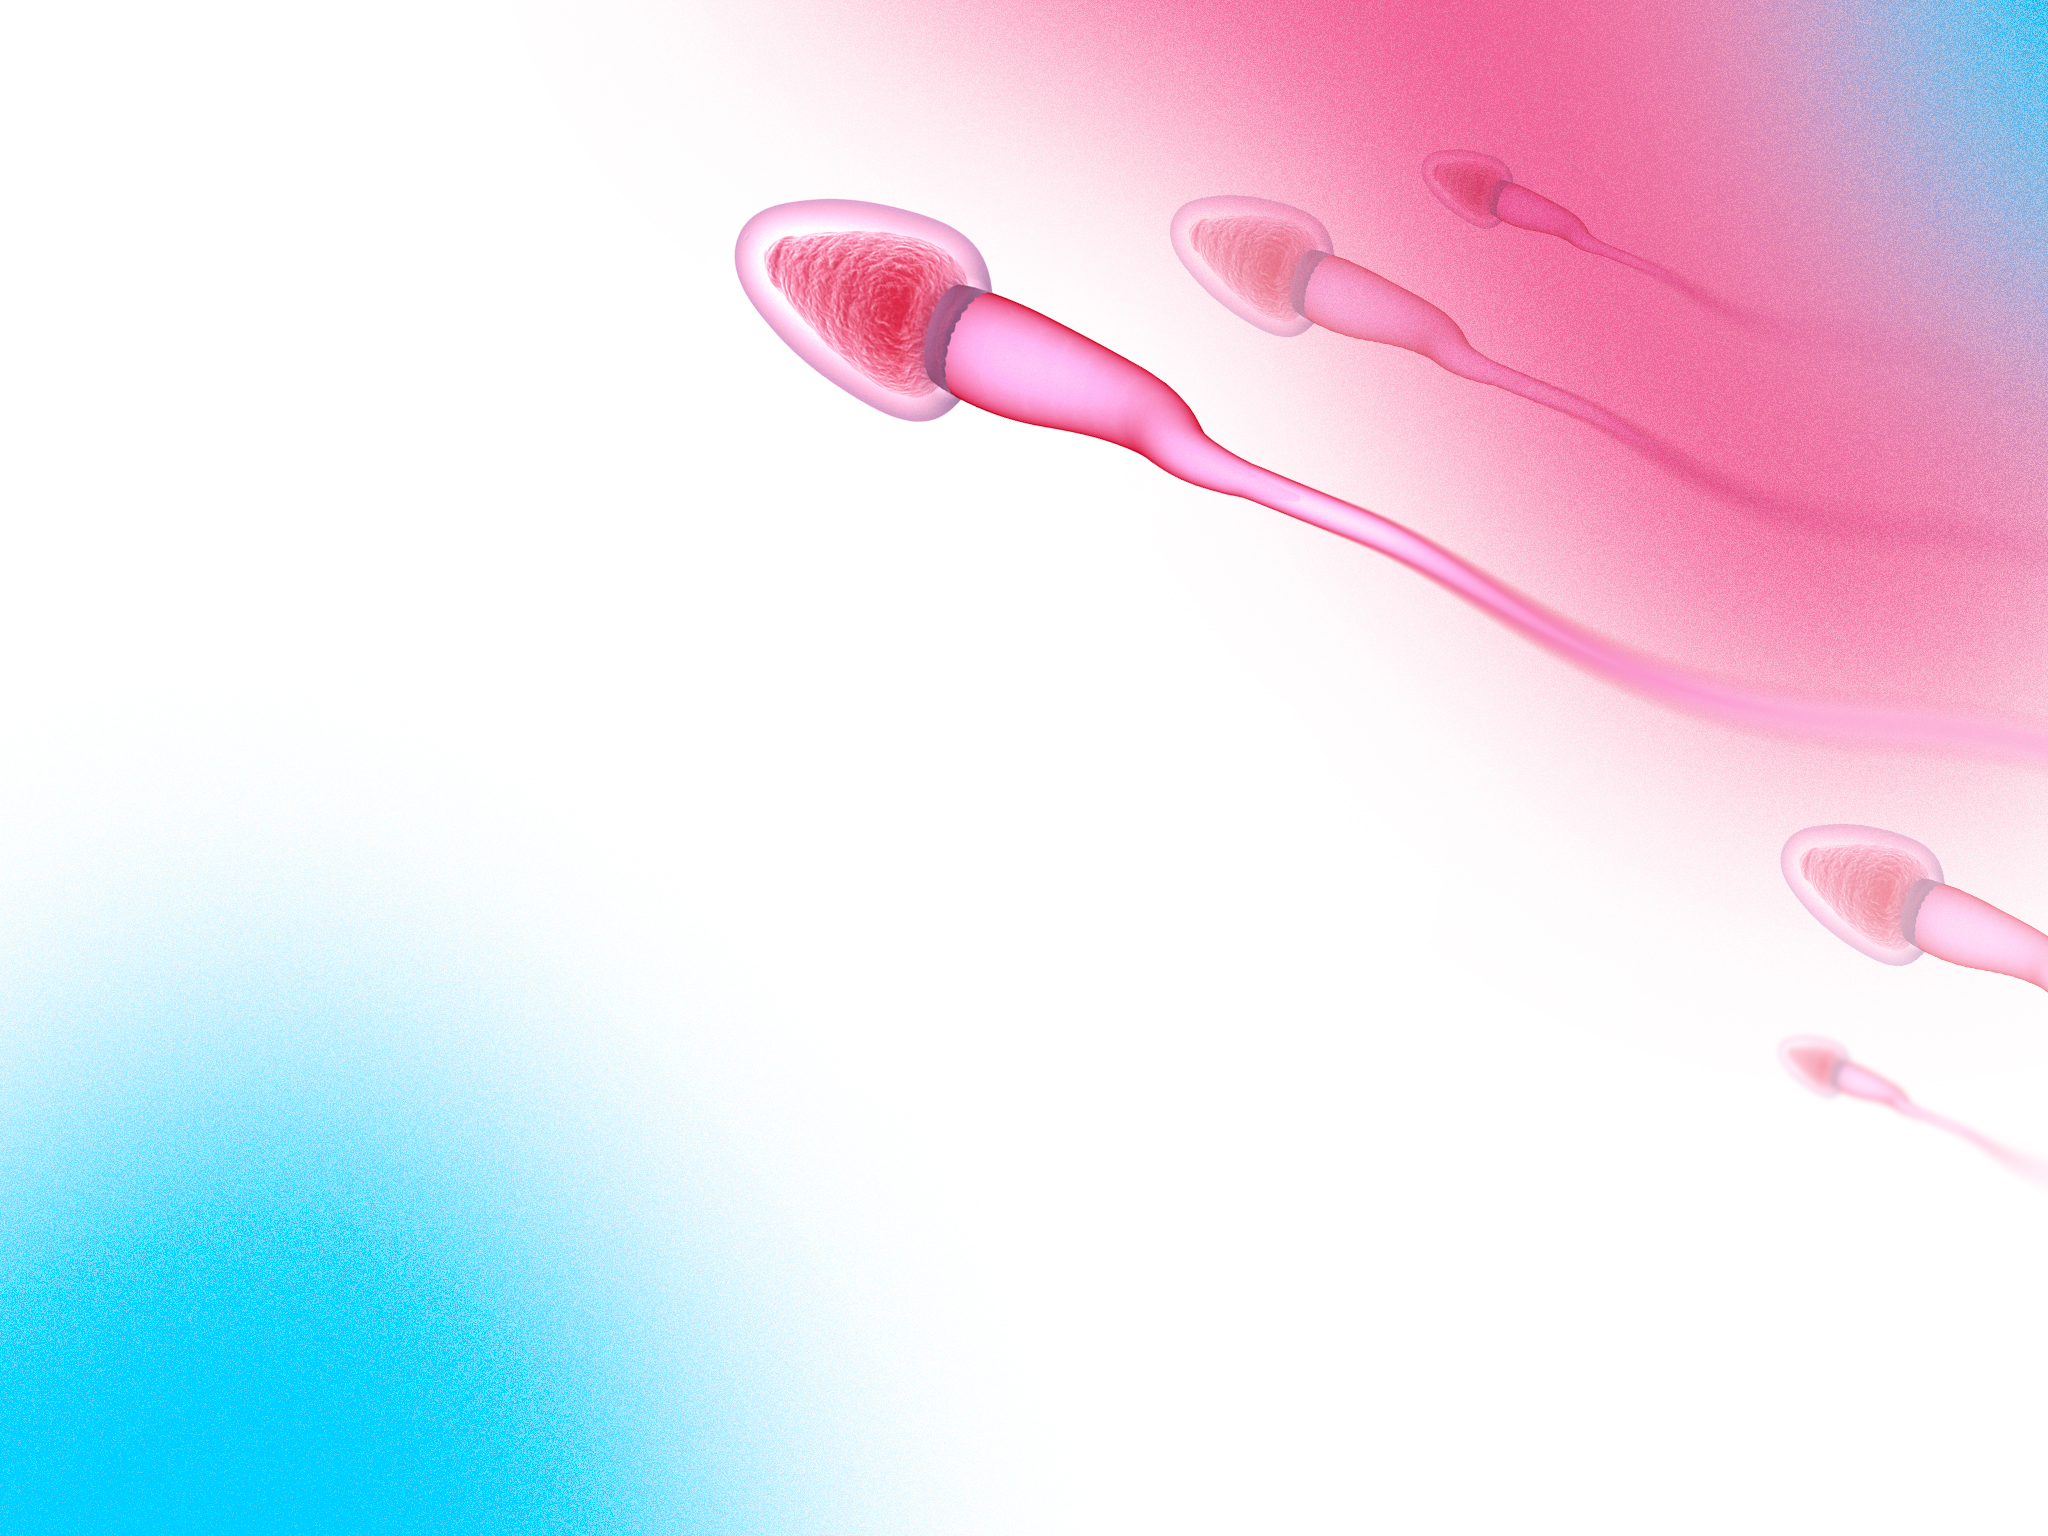
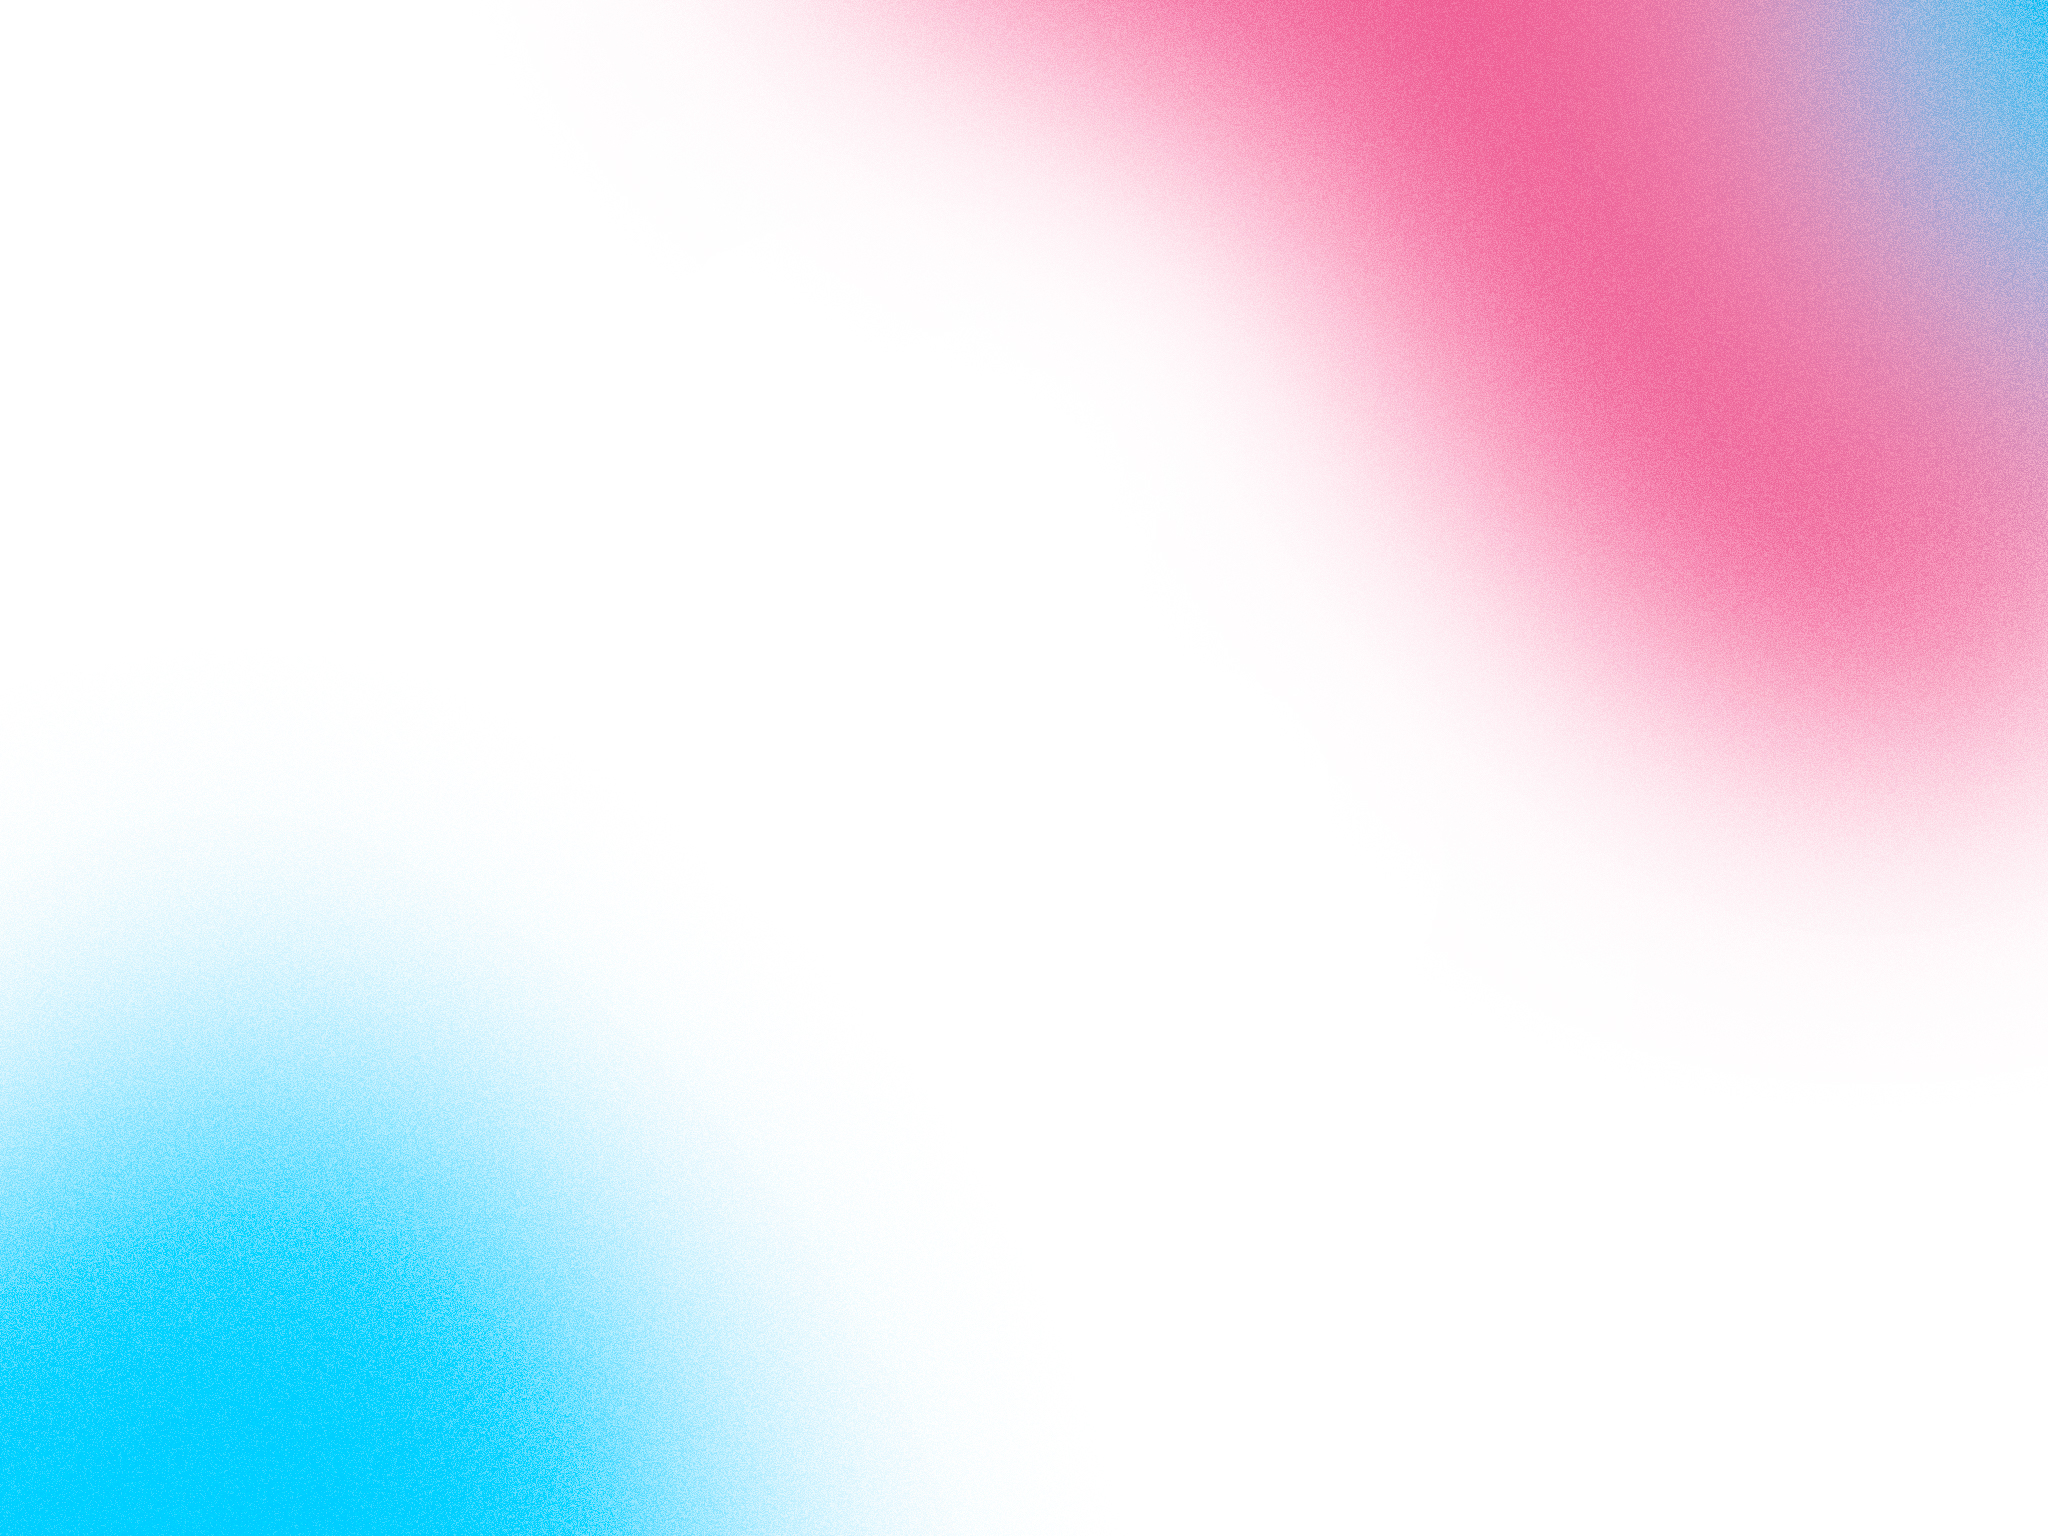
add Second page animation

diff --git a/app/src/pages/SecondPage/index.jsx b/app/src/pages/SecondPage/index.jsx
@@ -1,14 +1,22 @@
-import React from "react";
+import React, { useRef } from "react";
 
 import CustomScrollBlock from "../../components/CustomScrollBlock";
+
+import useIntersectionObserver from "../../hooks/useIntersectionObserver";
 
 import styles from "./SecondPage.module.scss";
 
 const SecondPage = () => {
+  const animRef = useRef("animation");
+  const entry = useIntersectionObserver(animRef, {});
+  const isVisible = !!entry?.isIntersecting;
+
   return (
     <div className={`${styles.wrapper} backgroundImage`}>
       <div className={styles.content}>
-        <span className={`mainSuptitle ${styles.title}`}>текст сообщения</span>
+        <span className={`mainSuptitle ${styles.title}`} ref={animRef}>
+          текст сообщения
+        </span>
         <CustomScrollBlock height="444px">
           <p>
             Lorem ipsum dolor sit amet, consectetur adipiscing elit, sed do
@@ -39,6 +47,15 @@ const SecondPage = () => {
           </p>
         </CustomScrollBlock>
       </div>
+      <img
+        className={
+          isVisible
+            ? `${styles.decorImage} ${styles.active}`
+            : styles.decorImage
+        }
+        src="../../../images/content/SecondPage/1.png"
+        alt=""
+      />
     </div>
   );
 };

diff --git a/app/src/hooks/useIntersectionObserver.jsx b/app/src/hooks/useIntersectionObserver.jsx
@@ -1,0 +1,32 @@
+import { useEffect, useState } from "react";
+
+const useIntersectionObserver = (
+  elementRef,
+  { threshold = 0, root = null, rootMargin = "0%", freezeOnceVisible = false }
+) => {
+  const [entry, setEntry] = useState();
+
+  const frozen = entry?.isIntersecting && freezeOnceVisible;
+
+  const updateEntry = ([entry]) => {
+    setEntry(entry);
+  };
+
+  useEffect(() => {
+    const node = elementRef?.current; // DOM Ref
+    const hasIOSupport = !!window.IntersectionObserver;
+
+    if (!hasIOSupport || frozen || !node) return;
+
+    const observerParams = { threshold, root, rootMargin };
+    const observer = new IntersectionObserver(updateEntry, observerParams);
+
+    observer.observe(node);
+
+    return () => observer.disconnect();
+  }, [elementRef, JSON.stringify(threshold), root, rootMargin, frozen]);
+
+  return entry;
+};
+
+export default useIntersectionObserver;

diff --git a/app/src/pages/SecondPage/SecondPage.module.scss b/app/src/pages/SecondPage/SecondPage.module.scss
@@ -1,12 +1,34 @@
 .wrapper {
   background-image: url("../../../images/content/bg-2.jpg");
+  position: relative;
 }
 
 .content {
   padding: 129px 0 0 70px;
+  position: relative;
+  z-index: 40;
 }
 
 .title {
   max-width: 250px;
   margin-bottom: 44px;
+}
+
+.decorImage {
+  position: absolute;
+  top: 74px;
+  right: -52px;
+  z-index: 0;
+
+  width: 710px;
+  height: 680px;
+
+  transform: translate3d(15%, 10%, 0);
+  opacity: 0;
+
+  &.active {
+    transform: translate3d(0, 0, 0);
+    opacity: 1;
+    transition: all 2.4s cubic-bezier(0, 0, 0.2, 1);
+  }
 }

diff --git a/app/src/App.jsx b/app/src/App.jsx
@@ -8,7 +8,7 @@ import SecondPage from "./pages/SecondPage";
 import ThirdPage from "./pages/ThirdPage";
 
 const App = () => {
-  const [activePage, setActivePage] = useState(2);
+  const [activePage, setActivePage] = useState(1);
 
   const changeActivePage = (index) => {
     setActivePage(index);
